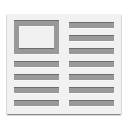
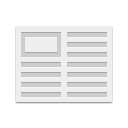
Create some images and update app description for listing purposes.

diff --git a/README.md b/README.md
@@ -1,4 +1,4 @@
 Purify
 ======
 
-A chrome extension that provides a pure reading experience.
+A chrome extension that helps you read news articles with minimal distraction and scrolling.
